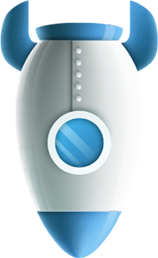
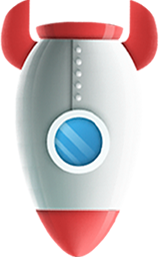
Added image for bullets & top player

diff --git a/core/src/com/mygdx/game/MainGame.java b/core/src/com/mygdx/game/MainGame.java
@@ -39,6 +39,8 @@ public class MainGame extends Game {
         manager.load("logo.png", Texture.class);
         manager.load("asteroid.png", Texture.class);
         manager.load("explosion-transitions.png", Texture.class);
+        manager.load("bullet-red.png", Texture.class);
+        manager.load("bullet-green.png", Texture.class);
         // Enter the loading screen to load the assets.
         loadingScreen = new LoadingScreen(this);
         setScreen(loadingScreen);

diff --git a/core/src/com/mygdx/game/entities/EntityFactory.java b/core/src/com/mygdx/game/entities/EntityFactory.java
@@ -62,7 +62,7 @@ public class EntityFactory {
     }
 
     protected ShotEntity createShot( Vector2 position, Vector2 impulse, Integer idShot, Integer idClient){
-        Texture shotTexture = manager.get("asteroid.png");
+        Texture shotTexture = manager.get("bullet-green.png");
         ShotEntity s = new ShotEntity(gs.world, shotTexture, position, impulse,idClient);
         gs.stage.addActor(s);
         shots.put(idShot,s);

diff --git a/core/src/com/mygdx/game/GameScreen.java b/core/src/com/mygdx/game/GameScreen.java
@@ -40,7 +40,7 @@ public class GameScreen extends BaseScreen {
         super(game);
 
         stage = new Stage(new FitViewport(Constants.WIDTH_SCREEN, Constants.HEIGHT_SCREEN));
-        stage.setDebugAll(true);
+        //stage.setDebugAll(true);
 
         world = new World(new Vector2(0, 0), true);
         conn=new Connection(this);
